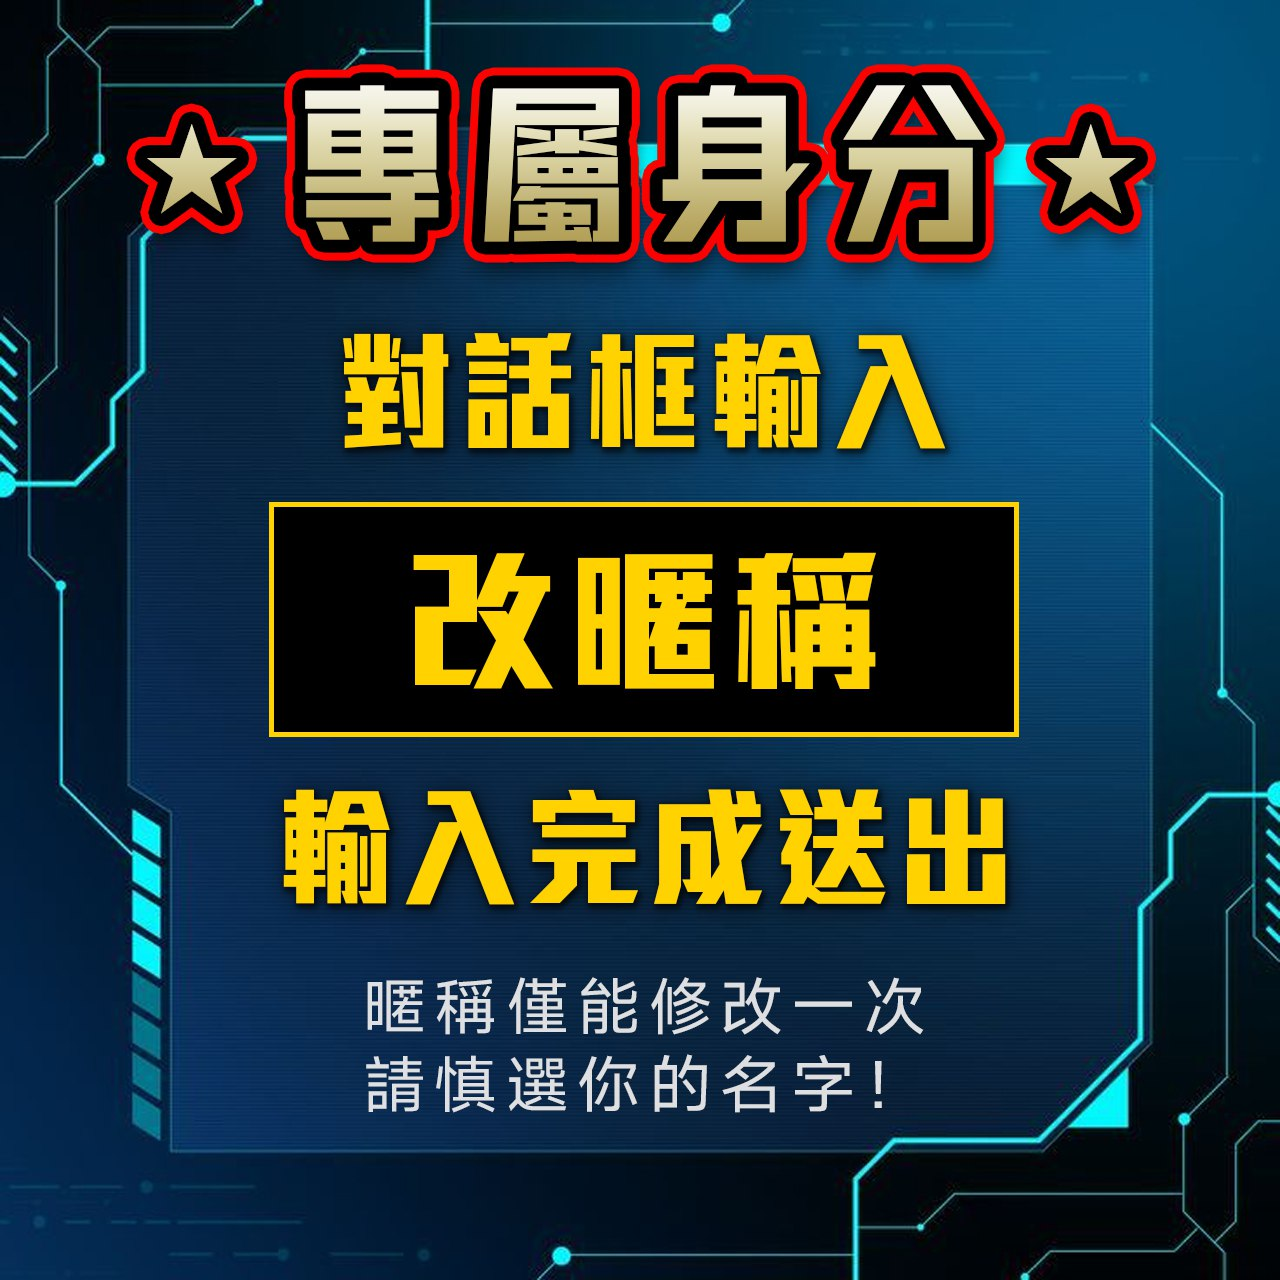
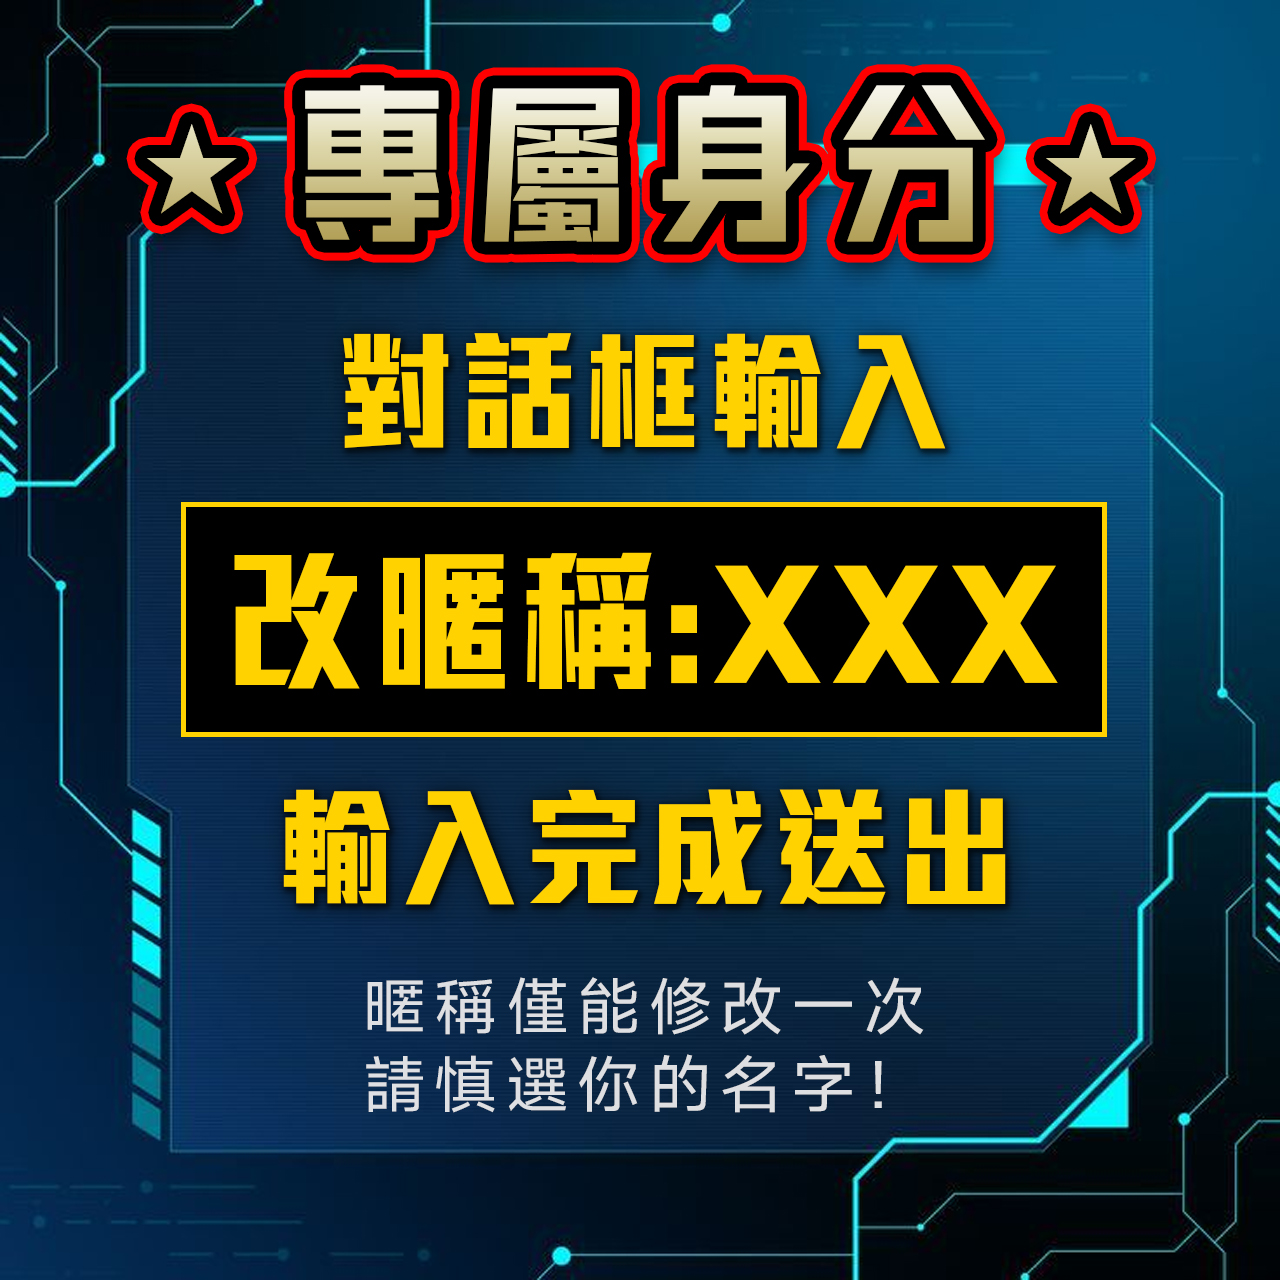
no message

diff --git a/application/api/controller/Line.php b/application/api/controller/Line.php
@@ -248,7 +248,7 @@ class Line extends Api
                                 $len += preg_match('/\p{Han}/u', $ch) ? 2 : 1;
                             }
                             
-                            if ($len > 10) {
+                            if ($len > 20) {
                                 $this->sendReplyMessage("暱稱長度超過限制");
                                 break;
                             }
@@ -462,7 +462,11 @@ class Line extends Api
 
 ※ 活動最終解釋權歸 賽事俱樂部 所有。";
         $img3 = $this->site_url['furl'].'/assets/img/linebot/heatmap/heatmap3.jpg';
-        $text3 = "";
+        $text3 = "改暱稱（僅限中、英、數字，最長 10 個中文字）。
+對話框輸入 
+改暱稱:(你的暱稱)
+送出即更改完成
+為維護預測公平性，暱稱僅能修改一次，送出後無法更改。";
         $flex = [
             'type' => 'carousel',
             'contents' => [
